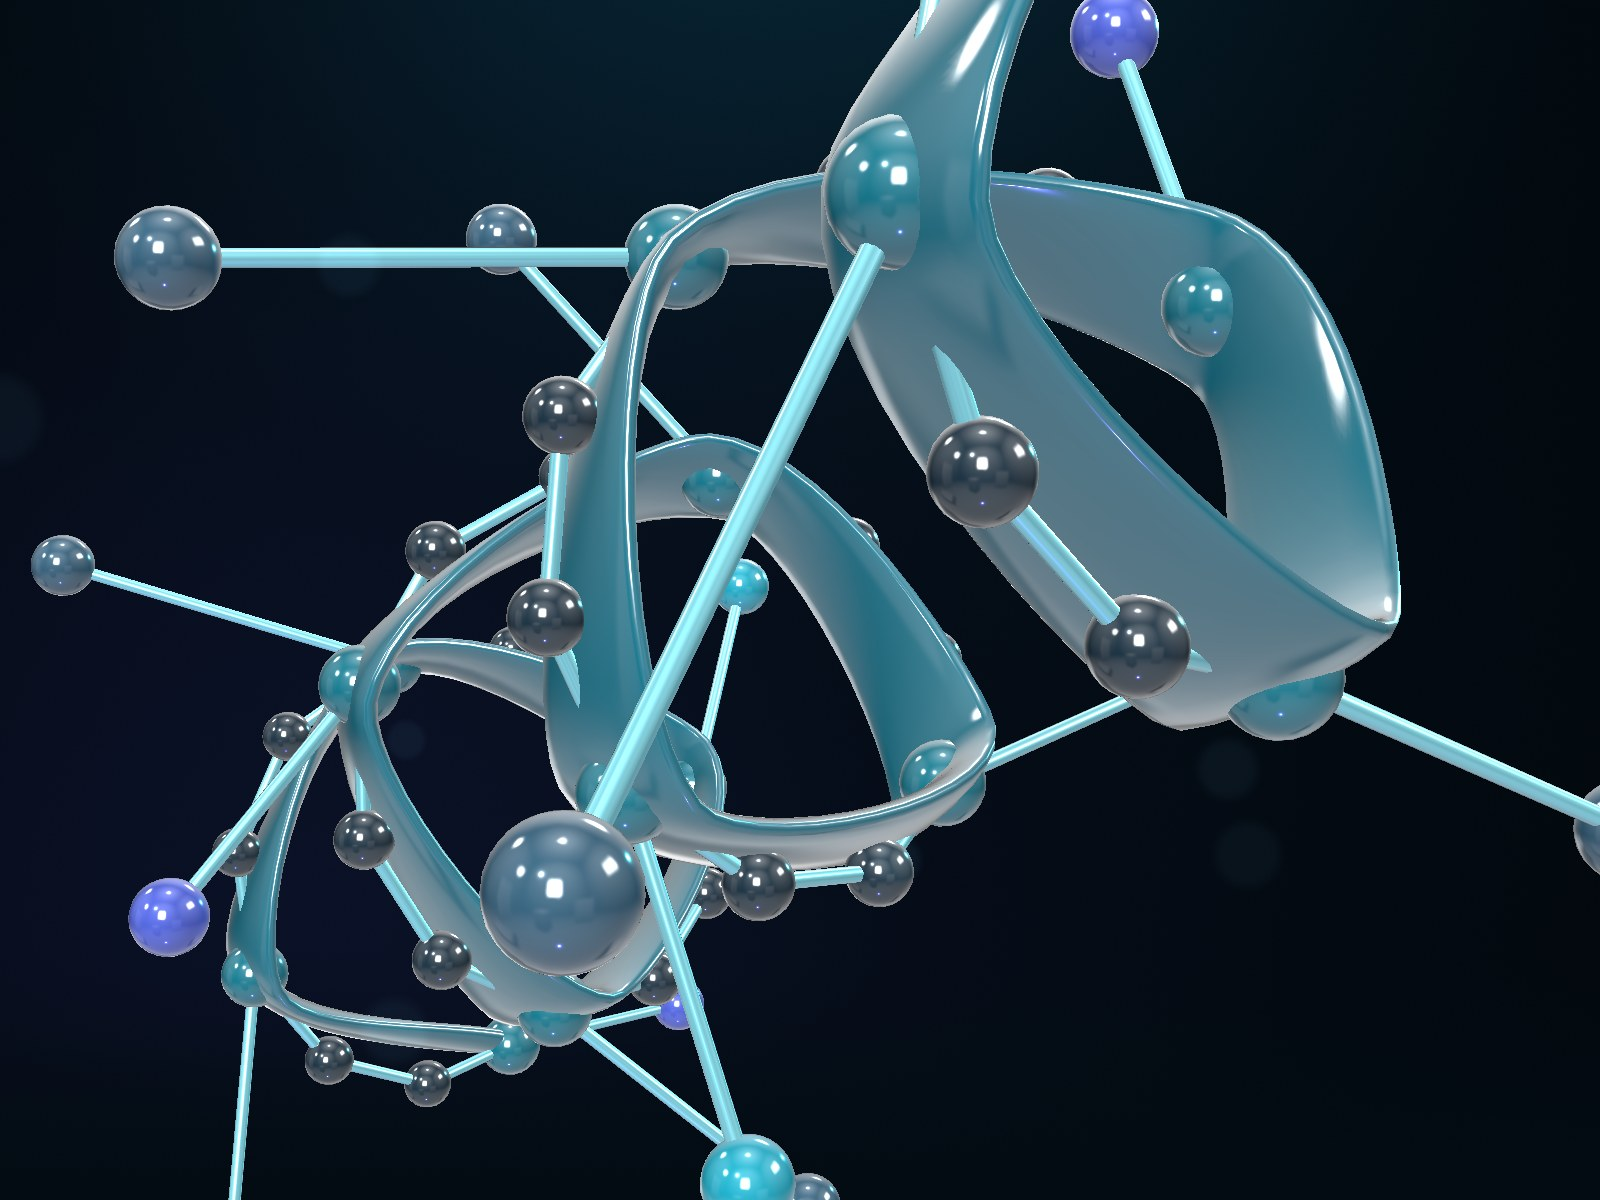
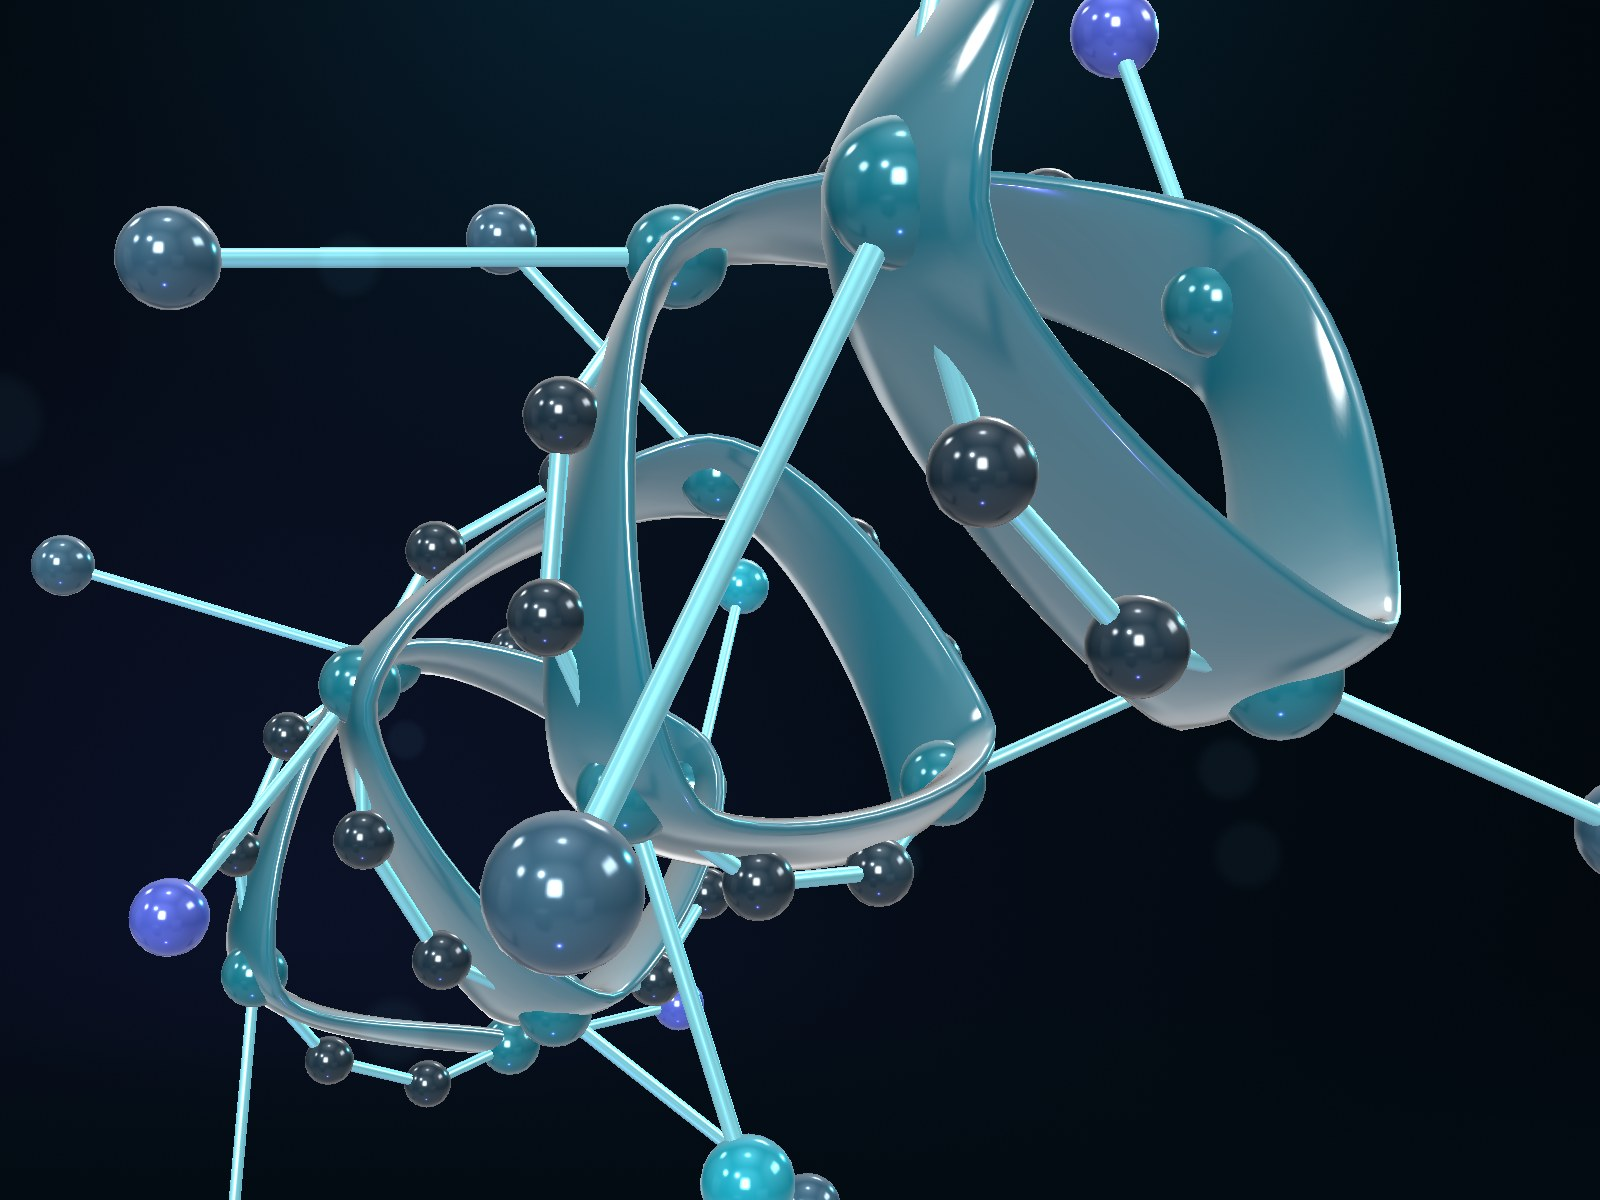
Public: keep clear coat for the ribbon only; standard glossy atoms and bonds
Same look, less shading work per pixel on phones. Molecule stills
re-rendered to match.

diff --git a/src/components/showcase/hero/hero-engine.ts b/src/components/showcase/hero/hero-engine.ts
@@ -174,7 +174,7 @@ export class HeroEngine {
   private glows?: THREE.Points<THREE.BufferGeometry, THREE.ShaderMaterial>;
   private motes?: THREE.Points<THREE.BufferGeometry, THREE.ShaderMaterial>;
   private molecule?: THREE.Group;
-  private readonly moleculeMats: THREE.MeshPhysicalMaterial[] = [];
+  private readonly moleculeMats: THREE.MeshStandardMaterial[] = [];
 
   private readonly helixM = new THREE.Matrix4();
   private readonly memM = new THREE.Matrix4();
@@ -415,17 +415,16 @@ export class HeroEngine {
     });
     const ribbonMesh = new THREE.Mesh(ribbonGeo, ribbonMat);
 
-    // Atoms: smaller and sharper, dark glass with controlled highlights.
-    const atomMat = new THREE.MeshPhysicalMaterial({
-      metalness: 0.2,
-      roughness: 0.1,
-      clearcoat: 1,
-      clearcoatRoughness: 0.05,
+    // Atoms: smaller and sharper, dark glass with controlled highlights. A
+    // standard material: clear coat is kept for the ribbon, where it shows.
+    const atomMat = new THREE.MeshStandardMaterial({
+      metalness: 0.35,
+      roughness: 0.12,
       envMap: env,
-      envMapIntensity: 1.2,
+      envMapIntensity: 1.25,
       transparent: true,
     });
-    const atoms = new THREE.InstancedMesh(new THREE.IcosahedronGeometry(1, 4), atomMat, solid.atoms.length);
+    const atoms = new THREE.InstancedMesh(new THREE.IcosahedronGeometry(1, 3), atomMat, solid.atoms.length);
     const m = new THREE.Matrix4();
     const c = new THREE.Color();
     // side chains as small dark-glass beads; colour only as a quiet signal
@@ -439,8 +438,8 @@ export class HeroEngine {
     });
 
     // Bonds: fine, precise rods.
-    const bondMat = new THREE.MeshPhysicalMaterial({ color: 0x7cc7d2, metalness: 0.6, roughness: 0.2, clearcoat: 1, envMap: env, transparent: true });
-    const bonds = new THREE.InstancedMesh(new THREE.CylinderGeometry(1, 1, 1, 10, 1, true), bondMat, solid.bonds.length);
+    const bondMat = new THREE.MeshStandardMaterial({ color: 0x7cc7d2, metalness: 0.6, roughness: 0.2, envMap: env, transparent: true });
+    const bonds = new THREE.InstancedMesh(new THREE.CylinderGeometry(1, 1, 1, 8, 1, true), bondMat, solid.bonds.length);
     const up = new THREE.Vector3(0, 1, 0);
     const q = new THREE.Quaternion();
     const a = new THREE.Vector3();
